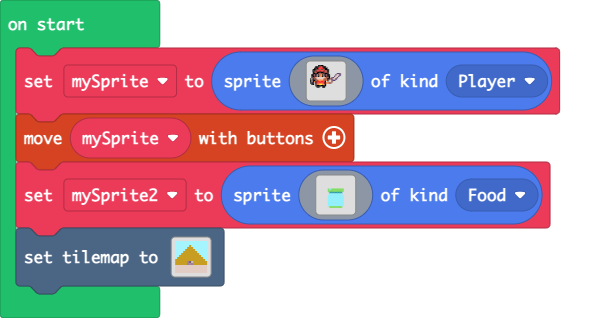
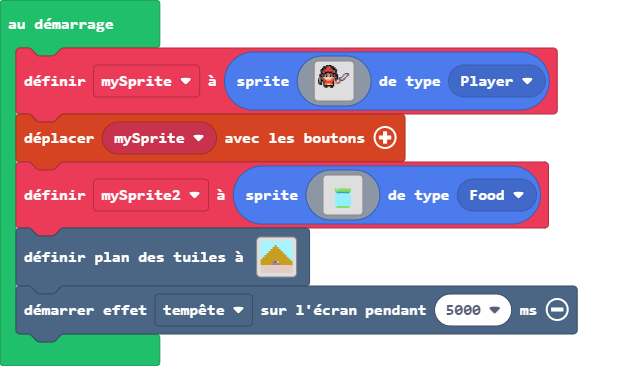
Mise à jour pxt.json, main.blocks, main.ts, tilemap.g.ts, images.g.jres, images.g.ts

diff --git a/images.g.ts b/images.g.ts
@@ -1,0 +1,37 @@
+// Code généré automatiquement. Ne pas modifier.
+namespace myImages {
+
+    helpers._registerFactory("image", function(name: string) {
+        switch(helpers.stringTrim(name)) {
+
+        }
+        return null;
+    })
+
+    helpers._registerFactory("animation", function(name: string) {
+        switch(helpers.stringTrim(name)) {
+            case "myAnim":
+            case "anim1":return [img`
+. . . . . . . . . . . . . . . . 
+. . . . . . . . . . . . . . . . 
+. . . . . . . . . . . . . . . . 
+. . . . . . . . . . . . . . . . 
+. . . . . . . . . . . . . . . . 
+. . . . . . . . . . . . . . . . 
+. . . . . . . . . . . . . . . . 
+. . . . . . . . . . . . . . . . 
+. . . . . . . . . . . . . . . . 
+. . . . . . . . . . . . . . . . 
+. . . . . . . . . . . . . . . . 
+. . . . . . . . . . . . . . . . 
+. . . . . . . . . . . . . . . . 
+. . . . . . . . . . . . . . . . 
+. . . . . . . . . . . . . . . . 
+. . . . . . . . . . . . . . . . 
+`];
+        }
+        return null;
+    })
+
+}
+// Code généré automatiquement. Ne pas modifier.

diff --git a/tilemap.g.ts b/tilemap.g.ts
@@ -1,4 +1,4 @@
-// Auto-generated code. Do not edit.
+// Code généré automatiquement. Ne pas modifier.
 namespace myTiles {
     //% fixedInstance jres blockIdentity=images._tile
     export const transparency16 = image.ofBuffer(hex``);
@@ -75,4 +75,4 @@ namespace myTiles {
     })
 
 }
-// Auto-generated code. Do not edit.
+// Code généré automatiquement. Ne pas modifier.

diff --git a/main.ts b/main.ts
@@ -48,3 +48,4 @@ let mySprite2 = sprites.create(img`
     ....................
     `, SpriteKind.Food)
 tiles.setTilemap(tilemap`entrée pyramide`)
+effects.blizzard.startScreenEffect(5000)
